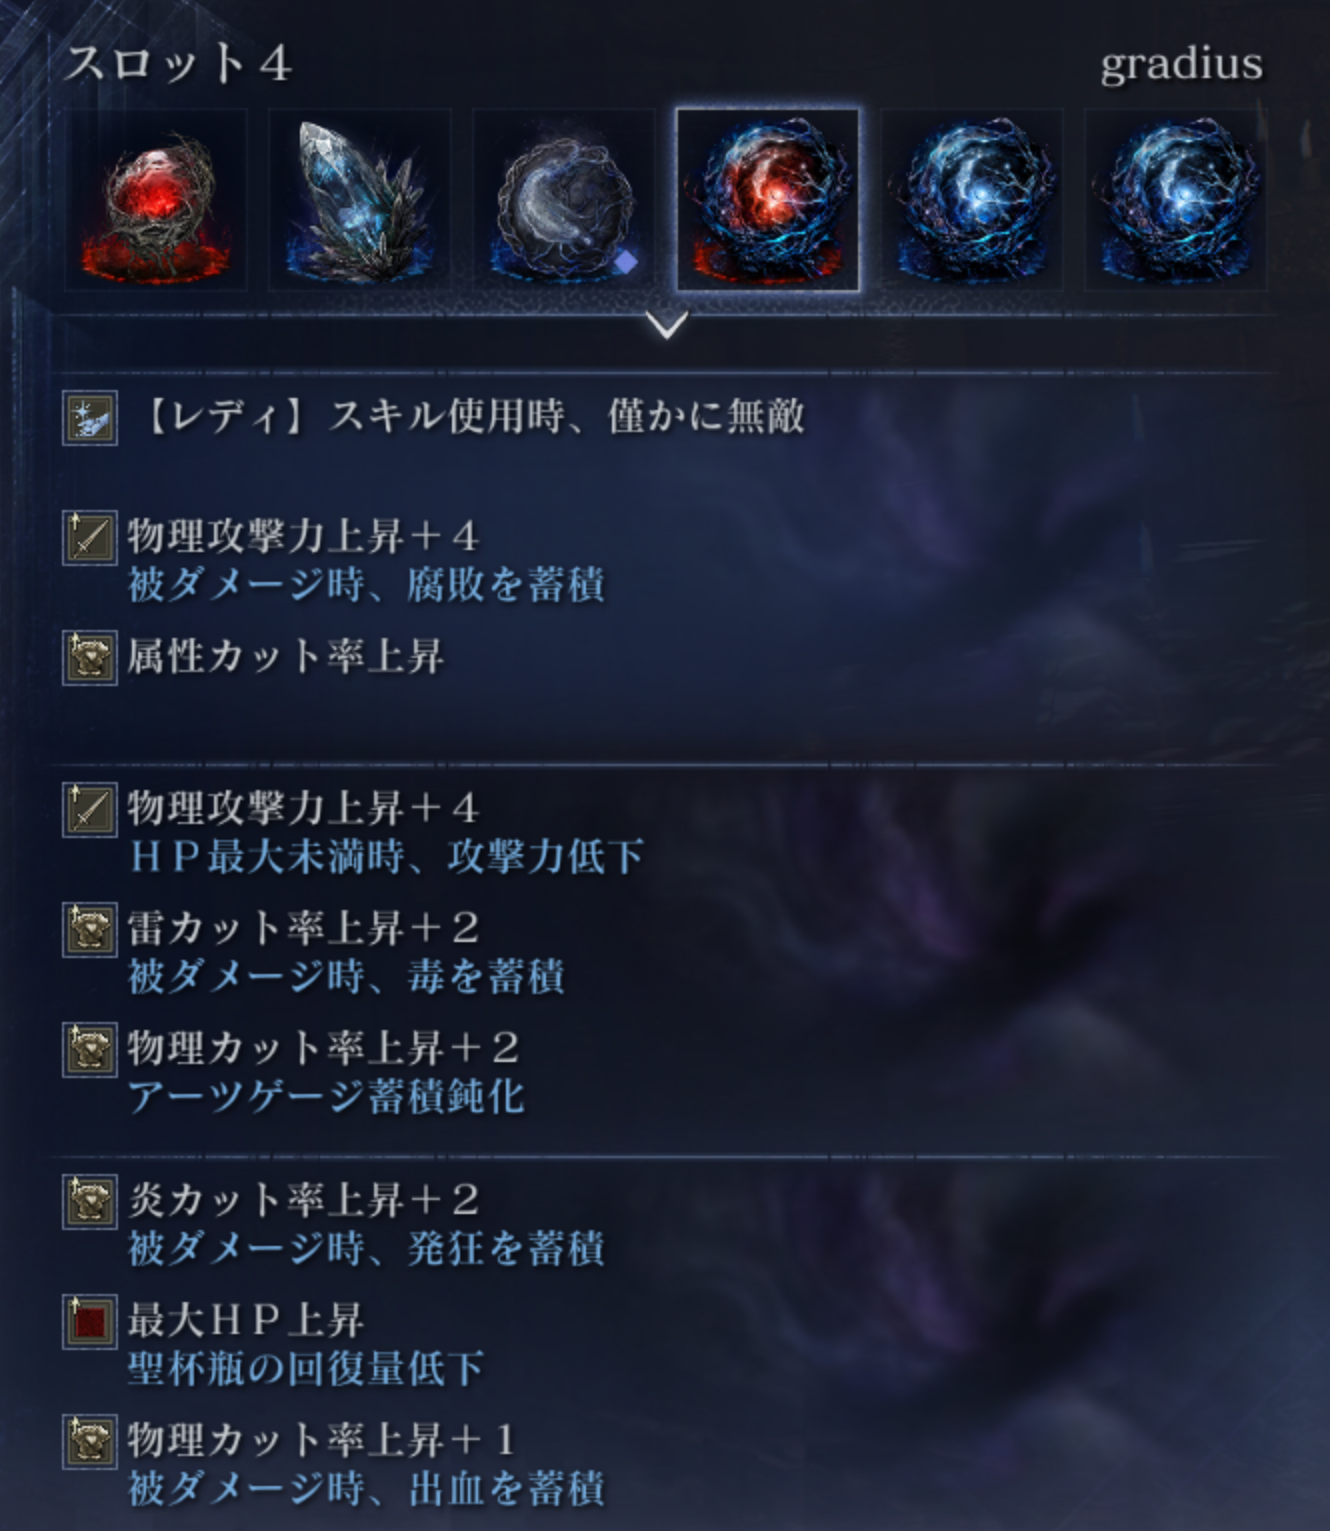
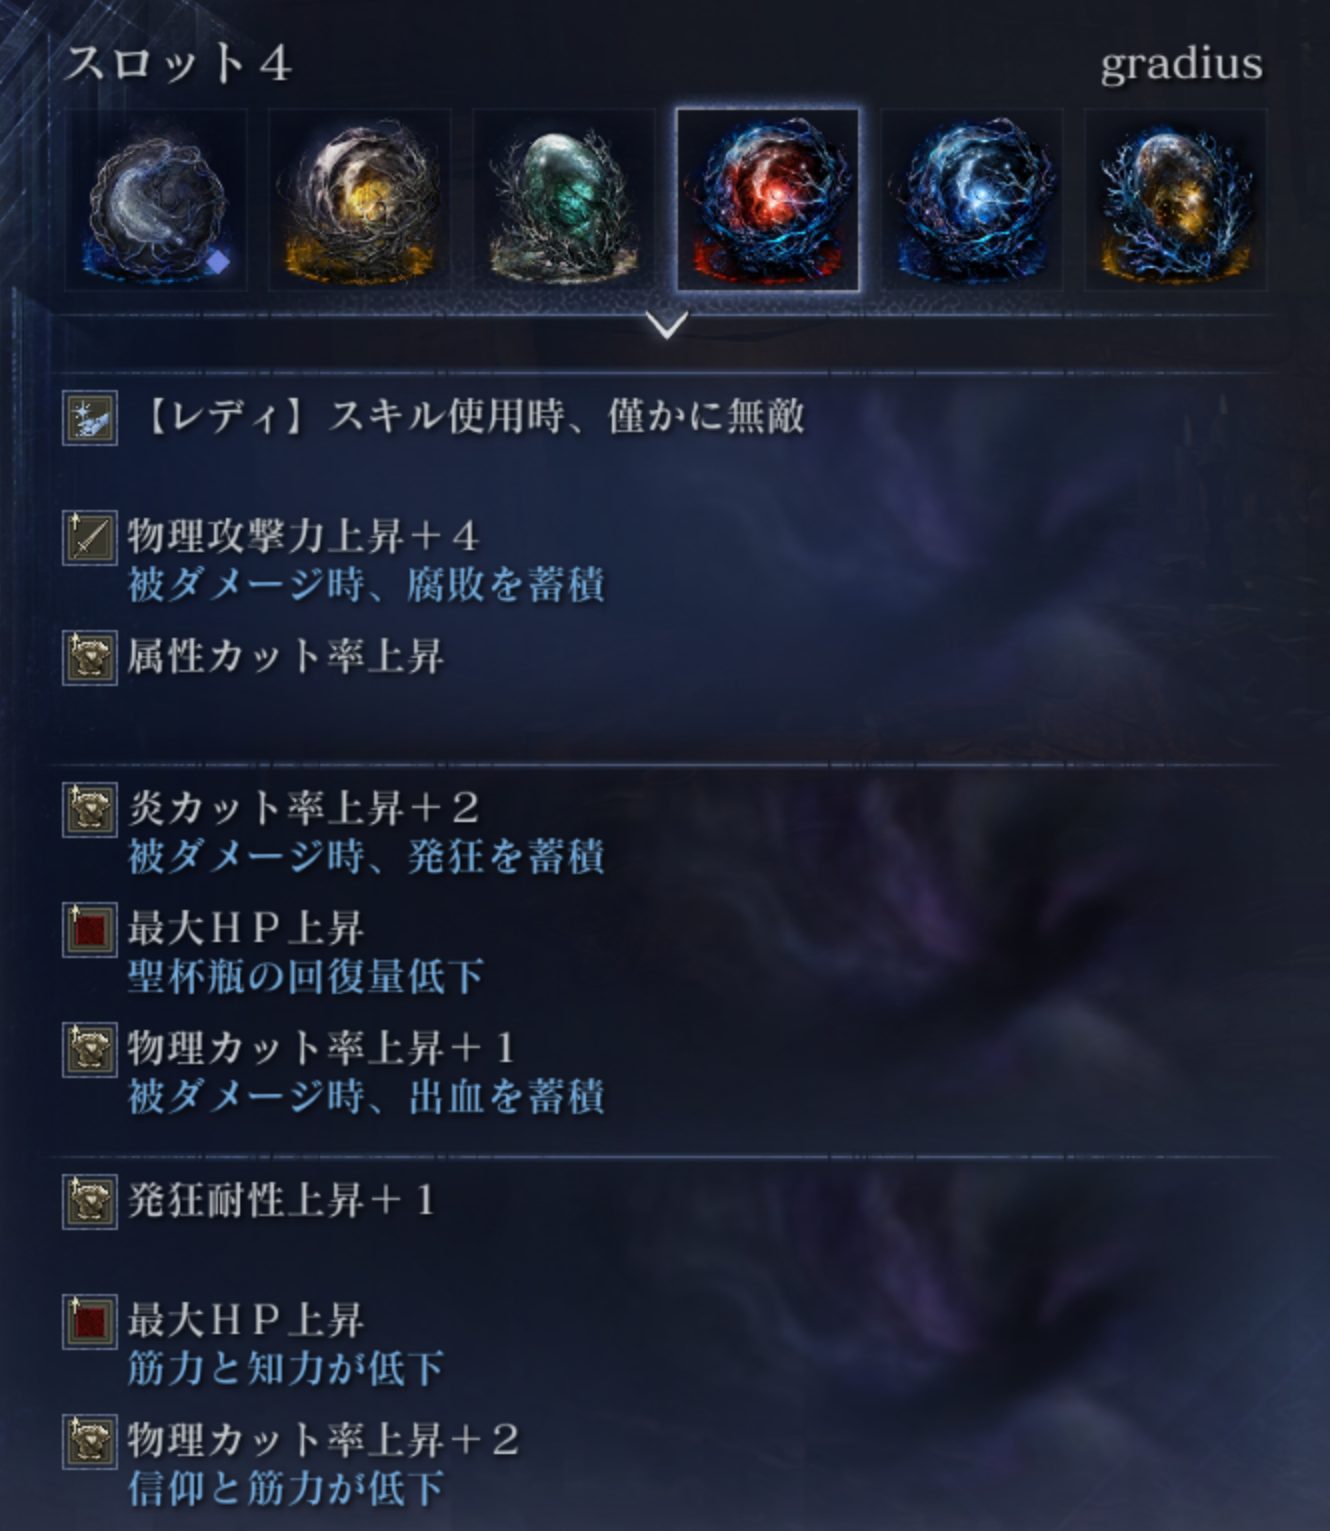
レディ・復讐者・隠者・学者・葬儀屋の遺物を差し替え、執行者を追加、PCでキャラボタンを1段に
- レディ: 基本を新規追加、カリゴを別エントリに分離、攻スタ&リゲインを遊び用へ、グラディウス・マリス・再演を差し替え
- 復讐者: リブラを差し替え
- 隠者: グラディウス・グノスター・カリゴを差し替え
- 執行者: キャラと基本エントリを追加
- 学者・葬儀屋: 全ボス共通を差し替え

diff --git a/style.css b/style.css
@@ -458,6 +458,29 @@ body {
     z-index: 20;
     background: var(--bg);
   }
+
+  /* PCではキャラボタンを折り返さず1段に収める（キャラが増えても均等に縮める） */
+  .character-filter {
+    flex-wrap: nowrap;
+    gap: 0.35rem;
+  }
+
+  .character-filter .character-btn {
+    flex: 1 1 0;
+    min-width: 0;
+    justify-content: center;
+    gap: 0.25rem;
+    padding: 0.25rem 0.35rem;
+  }
+
+  .character-filter .character-icon {
+    width: 24px;
+    height: 24px;
+  }
+
+  .character-filter .character-btn-label {
+    white-space: nowrap;
+  }
 }
 
 /* OBSのブラウザソース専用（app.jsがhtmlにobsクラスを付ける） */
